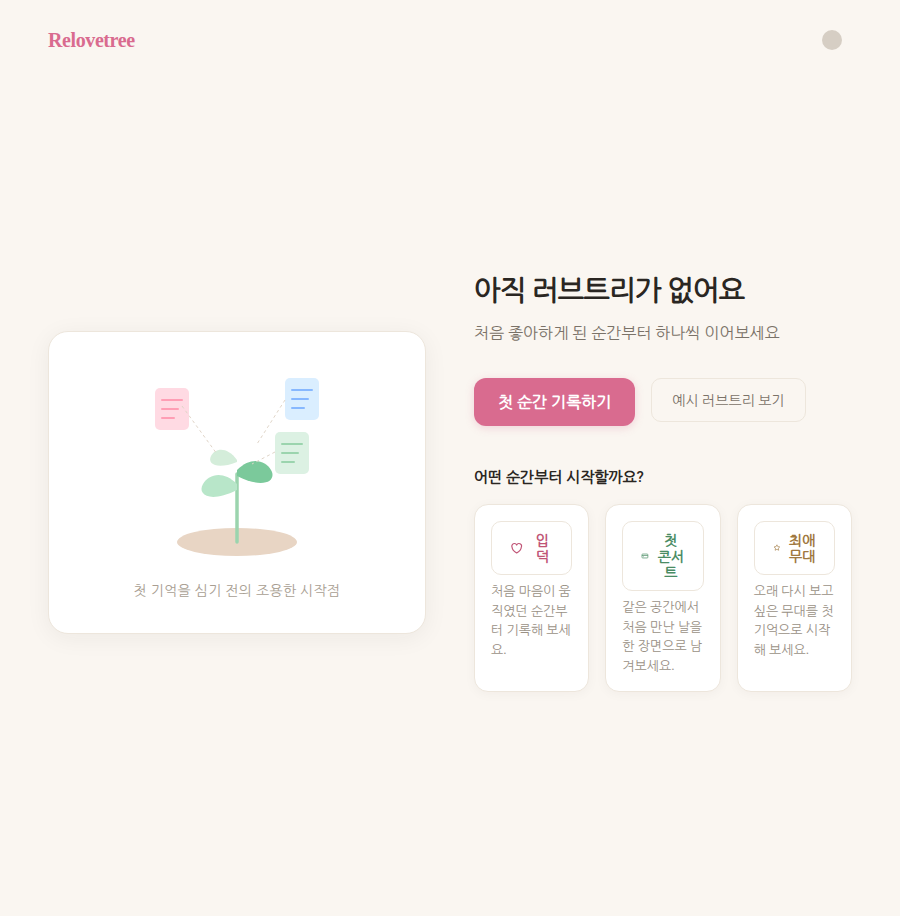
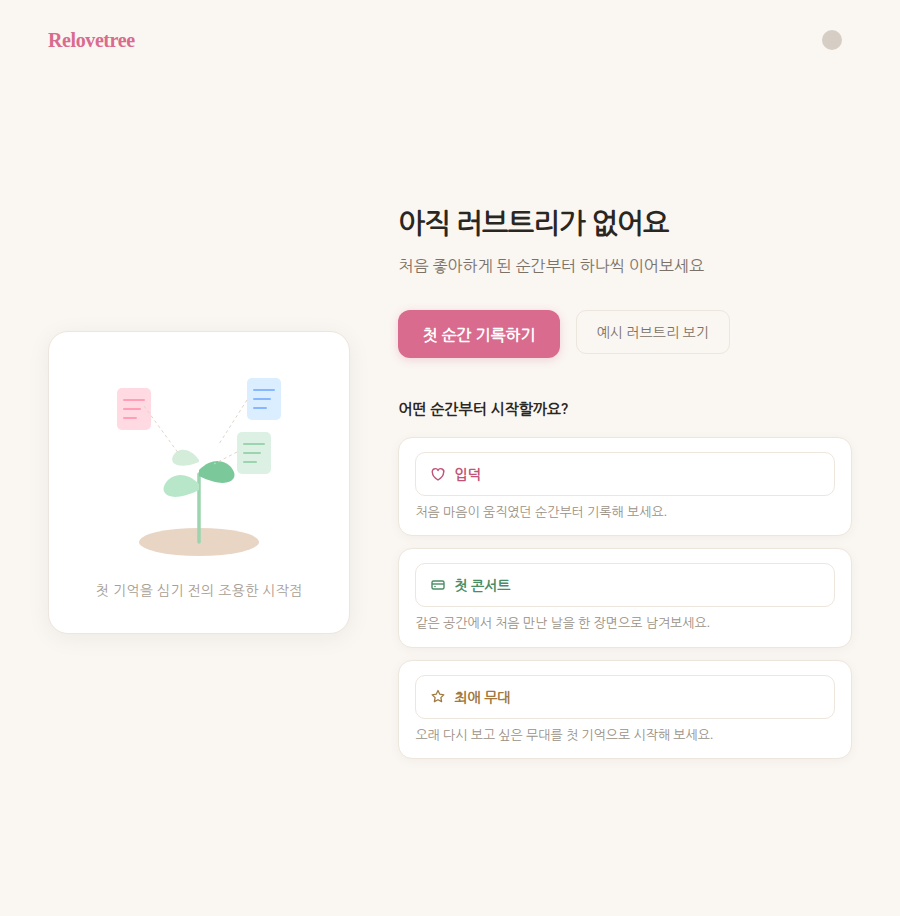
docs: replace LT3-MY-TREES-002 visual evidence after intermediate-width fix

diff --git a/docs/evidence/my-trees-empty-visual/visual-validation.md b/docs/evidence/my-trees-empty-visual/visual-validation.md
@@ -1,8 +1,11 @@
 # My Trees Empty State — Visual Validation
 
 Capture URL: `https://style-my-trees-empty-visual.lovetree3.pages.dev/my-trees/empty-demo`
-Deployed commit: `3bc1ac210eec87f208ea68510c8c344ddcd1ddf2`
+Deployed commit: `802957b34f8af47d8b1a8e66813e81dfa5e8edbc`
 Browser: Google Chrome 145.0.7632.116 (headless) · DPR 1 · Playwright
+
+This capture replaces the earlier `3bc1ac2` evidence after the intermediate-width
+readability fix (`fix: preserve quick-start readability at intermediate width`).
 
 ---
 
@@ -12,8 +15,8 @@ Browser: Google Chrome 145.0.7632.116 (headless) · DPR 1 · Playwright
 |---|---|
 | Screenshot | `my-trees-empty-desktop-1440x-full.png` |
 | PNG dimensions | 1440×1016 px |
-| Bytes | 61,206 |
[1 lines of base64/hex data omitted]
+| Bytes | 60,418 |
[1 lines of base64/hex data omitted]
 | scrollWidth | 1440 |
 | clientWidth | 1440 |
 | Horizontal overflow | 0 px — PASS |
@@ -22,7 +25,10 @@ Browser: Google Chrome 145.0.7632.116 (headless) · DPR 1 · Playwright
 | Failed requests | none |
 | Primary CTA | 161×48 px · bg `rgb(217,107,143)` (dusty rose) |
 | Secondary CTA | 154×44 px · transparent bg |
-| Quick-start button heights | 44, 54, 54 px — all ≥ 44px PASS |
+| Quick-start button heights | 44, 44, 44 px — all ≥ 44px PASS |
+| Quick-start layout | 3 cards in ONE row (`distinctItemRows: 1`) — PASS |
+| Quick-start item widths | 178 / 178 / 178 px (evenly spaced at x=650/842/1034) |
+| Quick-start title overflow | none (scrollWidth == clientWidth for all 3) — PASS |
 | Decorative SVGs | 4 |
 | Clipping / overlap | none detected |
 
@@ -30,8 +36,8 @@ Visible hierarchy:
 - H1: `아직 러브트리가 없어요`
 - H2: `어떤 순간부터 시작할까요?`
 - Brand ("Relovetree") appears exactly once
-- Quick-start items: 3 (each with title + description)
-- Layout: balanced two-area composition (visual panel + action panel)
+- Quick-start items: 3 (each with title + description), balanced single row
+- Layout: two-area composition (visual panel + action panel); quick-start 3-column active (≥1200px breakpoint)
 
 ---
 
@@ -41,8 +47,8 @@ Visible hierarchy:
 |---|---|
 | Screenshot | `my-trees-empty-intermediate-900x-full.png` |
 | PNG dimensions | 900×916 px |
-| Bytes | 57,386 |
[1 lines of base64/hex data omitted]
+| Bytes | 59,047 |
[1 lines of base64/hex data omitted]
 | scrollWidth | 900 |
 | clientWidth | 900 |
 | Horizontal overflow | 0 px — PASS |
@@ -51,7 +57,10 @@ Visible hierarchy:
 | Failed requests | none |
 | Primary CTA | 161×48 px · bg `rgb(217,107,143)` |
 | Secondary CTA | 154×44 px · transparent bg |
-| Quick-start button heights | 54, 70, 54 px — all ≥ 44px PASS |
+| Quick-start button heights | 44, 44, 44 px — all ≥ 44px PASS |
+| Quick-start layout | single column, stacked (`distinctItemRows: 3`) — PASS |
+| Quick-start item widths | 454 / 454 / 454 px (natural readable width) |
+| Quick-start title overflow | none (scrollWidth == clientWidth == 418 for all 3) — PASS |
 | Decorative SVGs | 4 |
 | Clipping / overlap | none detected |
 
@@ -59,8 +68,9 @@ Visible hierarchy:
 - H1: `아직 러브트리가 없어요`
 - H2: `어떤 순간부터 시작할까요?`
 - Brand ("Relovetree") appears exactly once
-- Quick-start items: 3 (each with title + description)
-- Layout: two-area grid at 900px breakpoint, no overlap
+- Quick-start items: 3 (each with title + description), stacked full-width cards
+- Layout: two-area grid preserved at 900px (action panel at x=398); quick-start stays single column below the 1200px breakpoint
+- Titles `입덕`, `첫 콘서트`, `최애 무대` render on one line — no character-level fragmentation
 
 ---
 
@@ -70,8 +80,8 @@ Visible hierarchy:
 |---|---|
 | Screenshot | `my-trees-empty-mobile-390x-full.png` |
 | PNG dimensions | 390×901 px (full-page; page height 901 > viewport 844) |
-| Bytes | 48,333 |
[1 lines of base64/hex data omitted]
+| Bytes | 48,335 |
[1 lines of base64/hex data omitted]
 | scrollWidth | 390 |
 | clientWidth | 390 |
 | Horizontal overflow | 0 px — PASS |
@@ -81,6 +91,9 @@ Visible hierarchy:
 | Primary CTA | 300×48 px · bg `rgb(217,107,143)` |
 | Secondary CTA | 154×44 px · transparent bg |
 | Quick-start button heights | 44, 44, 44 px — all ≥ 44px PASS |
+| Quick-start layout | single column, stacked (`distinctItemRows: 3`) — PASS |
+| Quick-start item widths | 342 / 342 / 342 px |
+| Quick-start title overflow | none — PASS |
 | Decorative SVGs | 4 |
 | Clipping / overlap | none detected |
 
@@ -111,4 +124,7 @@ Visible hierarchy:
 | No failed requests | PASS | PASS | PASS |
 | Mobile single-column layout | n/a | n/a | PASS |
 | Desktop two-area composition | PASS | n/a | n/a |
+| Desktop quick-start 3-in-a-row (balanced) | PASS | n/a | n/a |
+| Intermediate quick-start single column | n/a | PASS | n/a |
+| Intermediate no character-level title fragmentation | n/a | PASS | n/a |
 | Intermediate no overlap at 900px | n/a | PASS | n/a |

diff --git a/docs/evidence/my-trees-empty-visual/known-visual-differences.md b/docs/evidence/my-trees-empty-visual/known-visual-differences.md
@@ -3,8 +3,12 @@
 ## Capture Context
 
 - URL: `https://style-my-trees-empty-visual.lovetree3.pages.dev/my-trees/empty-demo`
-- Commit: `3bc1ac210eec87f208ea68510c8c344ddcd1ddf2`
+- Commit: `802957b34f8af47d8b1a8e66813e81dfa5e8edbc`
 - Browser: Google Chrome 145.0.7632.116 (headless) · DPR 1
+
+This capture supersedes the earlier `3bc1ac2` evidence. The intermediate-width
+readability defect (quick-start titles fragmenting character-by-character at 900px)
+was fixed in `fix: preserve quick-start readability at intermediate width`.
 
 ## No Blocking Visual Differences
 
@@ -18,24 +22,38 @@ informational notes, not defects.
 - Impact: none — no horizontal overflow at any viewport; vertical scroll is expected and allowed
 - Status: expected behaviour, not a defect
 
-### 2. Quick-start button heights vary by viewport
+### 2. Quick-start column count is breakpoint-driven (intentional)
 
-- Desktop: 44/54/54 px · Intermediate: 54/70/54 px · Mobile: 44/44/44 px
-- Variation is due to text wrapping at different container widths
-- All heights are ≥ 44px (minimum touch target requirement met)
-- Status: expected responsive behaviour
+- Desktop 1440px (≥1200px breakpoint): 3 cards in a single balanced row (`distinctItemRows: 1`, widths 178/178/178 px)
+- Intermediate 900px (<1200px breakpoint): single column, stacked full-width cards (`distinctItemRows: 3`, widths 454/454/454 px)
+- Mobile 390px: single column, stacked (`distinctItemRows: 3`, widths 342/342/342 px)
+- Rationale: the 3-column arrangement is only applied once enough width is available (≥1200px), so cards never become too narrow to read
+- Status: expected responsive behaviour, matches the fix intent
 
-### 3. Desktop two-area composition
+### 3. Quick-start titles never fragment character-by-character
+
+- `white-space: nowrap` on the quick-start button keeps `입덕`, `첫 콘서트`, `최애 무대` on a single line at every viewport
+- Verified: button `scrollWidth == clientWidth` (no overflow) at all three viewports
+- Descriptions use `word-break: keep-all` so Korean words wrap as whole tokens, not mid-syllable
+- Status: defect from the prior `3bc1ac2` capture is resolved
+
+### 4. Quick-start button heights are uniform
+
+- Desktop: 44/44/44 px · Intermediate: 44/44/44 px · Mobile: 44/44/44 px
+- With titles on a single line, button height is the stable 44px minimum touch target everywhere
+- Status: expected behaviour
+
+### 5. Desktop two-area composition
 
 - Left panel: sprout/memory illustration in a white card with caption "첫 기억을 심기 전의 조용한 시작점"
 - Right panel: h1, description, CTA pair, quick-start items in a row of 3 cards
-- At 1440px the two areas are balanced within a 1080px max-width grid; no overlap or clipping
+- Grid uses an asymmetric `2fr / 3fr` split so the action panel (with the 3-card quick-start) has enough room at 1440px; no overlap or clipping within the 1080px max-width grid
 - Status: matches "First Memory Garden" design intent
 
-### 4. Intermediate 900px breakpoint
+### 6. Intermediate 900px breakpoint
 
-- At exactly 900px the layout switches to the two-area grid
-- No element overlap detected; quick-start items wrap within their cards
+- At exactly 900px the outer layout is the two-area grid, but the quick-start list remains a single column
+- No element overlap detected; cards and descriptions read at a natural 454px width
 - Status: expected breakpoint behaviour
 
 ## Unchanged / Matching (all viewports)
@@ -44,7 +62,7 @@ informational notes, not defects.
 - Description: `처음 좋아하게 된 순간부터 하나씩 이어보세요` — exact match
 - Primary CTA: `첫 순간 기록하기` — dusty rose `rgb(217,107,143)`, visually primary
 - Secondary CTA: `예시 러브트리 보기` — transparent bg, visually secondary
-- Quick-start titles: `입덕`, `첫 콘서트`, `최애 무대` — exact match
+- Quick-start titles: `입덕`, `첫 콘서트`, `최애 무대` — exact match, each on one line
 - Each quick-start item has a one-sentence description
 - Brand "Relovetree" appears exactly once
 - 4 decorative SVGs (1 main sprout + 3 quick-start icons), all `aria-hidden="true" focusable="false"`

diff --git a/docs/evidence/my-trees-empty-visual/evidence-metadata.md b/docs/evidence/my-trees-empty-visual/evidence-metadata.md
@@ -2,16 +2,17 @@
 
 ## Commit Trace
 1. Base main: `d82344f13d6cebf265870e22aaf7efc58e0b5c8c`
-2. Visual Source: `3bc1ac210eec87f208ea68510c8c344ddcd1ddf2` — `style: deepen LT3-MY-TREES-002 empty-state onboarding`
-3. Evidence: `f2b1615363496207b563b7e952eab8b28e02c650` — `docs: add verified LT3-MY-TREES-002 visual evidence`
-4. Metadata: recorded in PR #53 body and final report — `docs: finalize LT3-MY-TREES-002 evidence metadata`
+2. Visual Source (original): `3bc1ac210eec87f208ea68510c8c344ddcd1ddf2` — `style: deepen LT3-MY-TREES-002 empty-state onboarding`
+3. Intermediate-width fix: `802957b34f8af47d8b1a8e66813e81dfa5e8edbc` — `fix: preserve quick-start readability at intermediate width`
+4. Evidence (re-capture): `PENDING` — `docs: replace LT3-MY-TREES-002 visual evidence after intermediate-width fix`
+5. Metadata: recorded in PR #53 body and final report — `docs: finalize LT3-MY-TREES-002 evidence metadata (re-capture)`
 
 ## Branch Preview
 - URL: `https://style-my-trees-empty-visual.lovetree3.pages.dev/my-trees/empty-demo`
-- Commit-hash URL: `https://fb546a69.lovetree3.pages.dev`
+- Commit-hash URL: `https://fea0b0da.lovetree3.pages.dev`
 - Branch: `style/my-trees-empty-visual-refinement`
-- Cloudflare deployment ID: `fb546a69-1ed0-4434-b3e1-f4db3c1c3106`
-- Cloudflare deployed commit: `3bc1ac210eec87f208ea68510c8c344ddcd1ddf2`
+- Cloudflare deployment ID: `fea0b0da-e82f-477c-9717-d513f2e386f8`
+- Cloudflare deployed commit: `802957b34f8af47d8b1a8e66813e81dfa5e8edbc`
 - PR: #53 (OPEN/DRAFT)
 - Issue: #52 (OPEN)
 
@@ -22,14 +23,14 @@
 - DPR: 1 (all viewports)
 
 ## Screenshot Hashes
-- `my-trees-empty-desktop-1440x-full.png` (1440×1016 px, 61,206 bytes):
[1 lines of base64/hex data omitted]
-- `my-trees-empty-intermediate-900x-full.png` (900×916 px, 57,386 bytes):
[1 lines of base64/hex data omitted]
-- `my-trees-empty-mobile-390x-full.png` (390×901 px, 48,333 bytes):
[1 lines of base64/hex data omitted]
+- `my-trees-empty-desktop-1440x-full.png` (1440×1016 px, 60,418 bytes):
[1 lines of base64/hex data omitted]
+- `my-trees-empty-intermediate-900x-full.png` (900×916 px, 59,047 bytes):
[1 lines of base64/hex data omitted]
+- `my-trees-empty-mobile-390x-full.png` (390×901 px, 48,335 bytes):
[1 lines of base64/hex data omitted]
 
-## Tests (at Visual Source Commit `3bc1ac2`)
+## Tests (at Intermediate-width Fix Commit `802957b`)
 - Focused: `MyTreesEmptyPage.test.tsx` — 29/29 passed
 - Full repository: 13 files, 336 tests — all passed
 - Lint: 0 warnings, 0 errors
